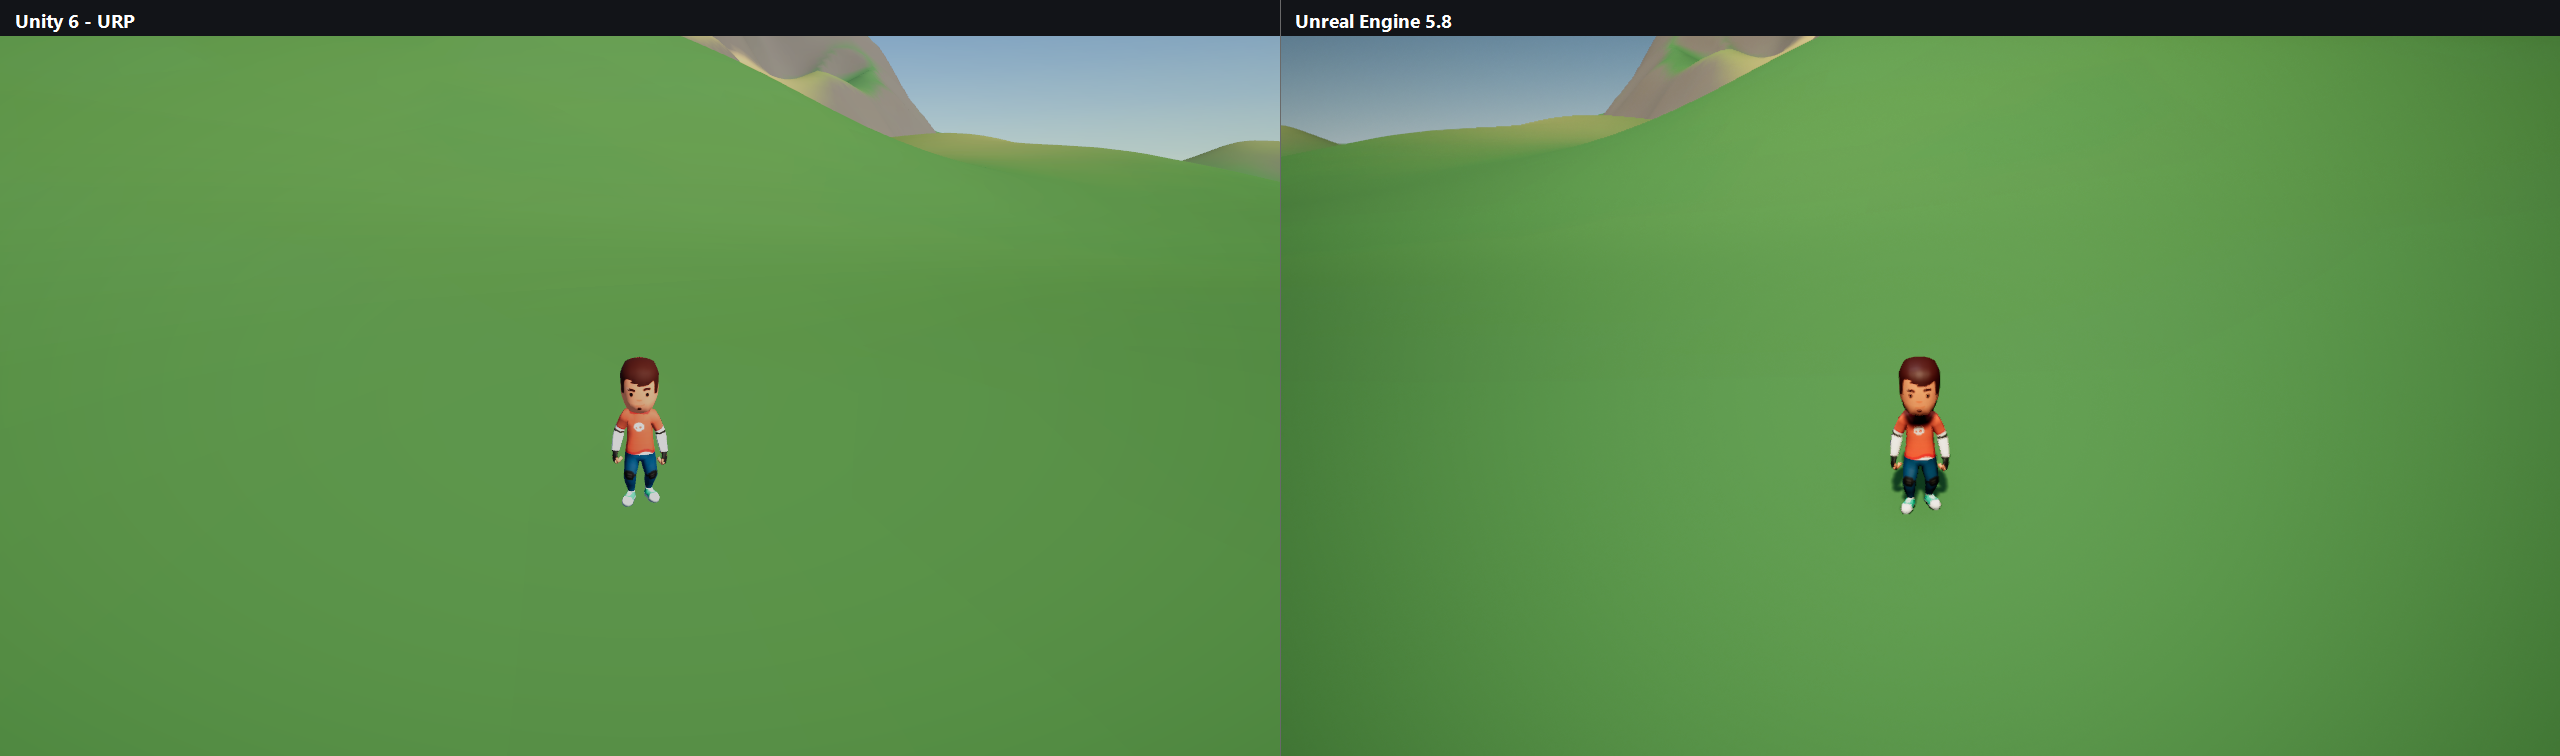
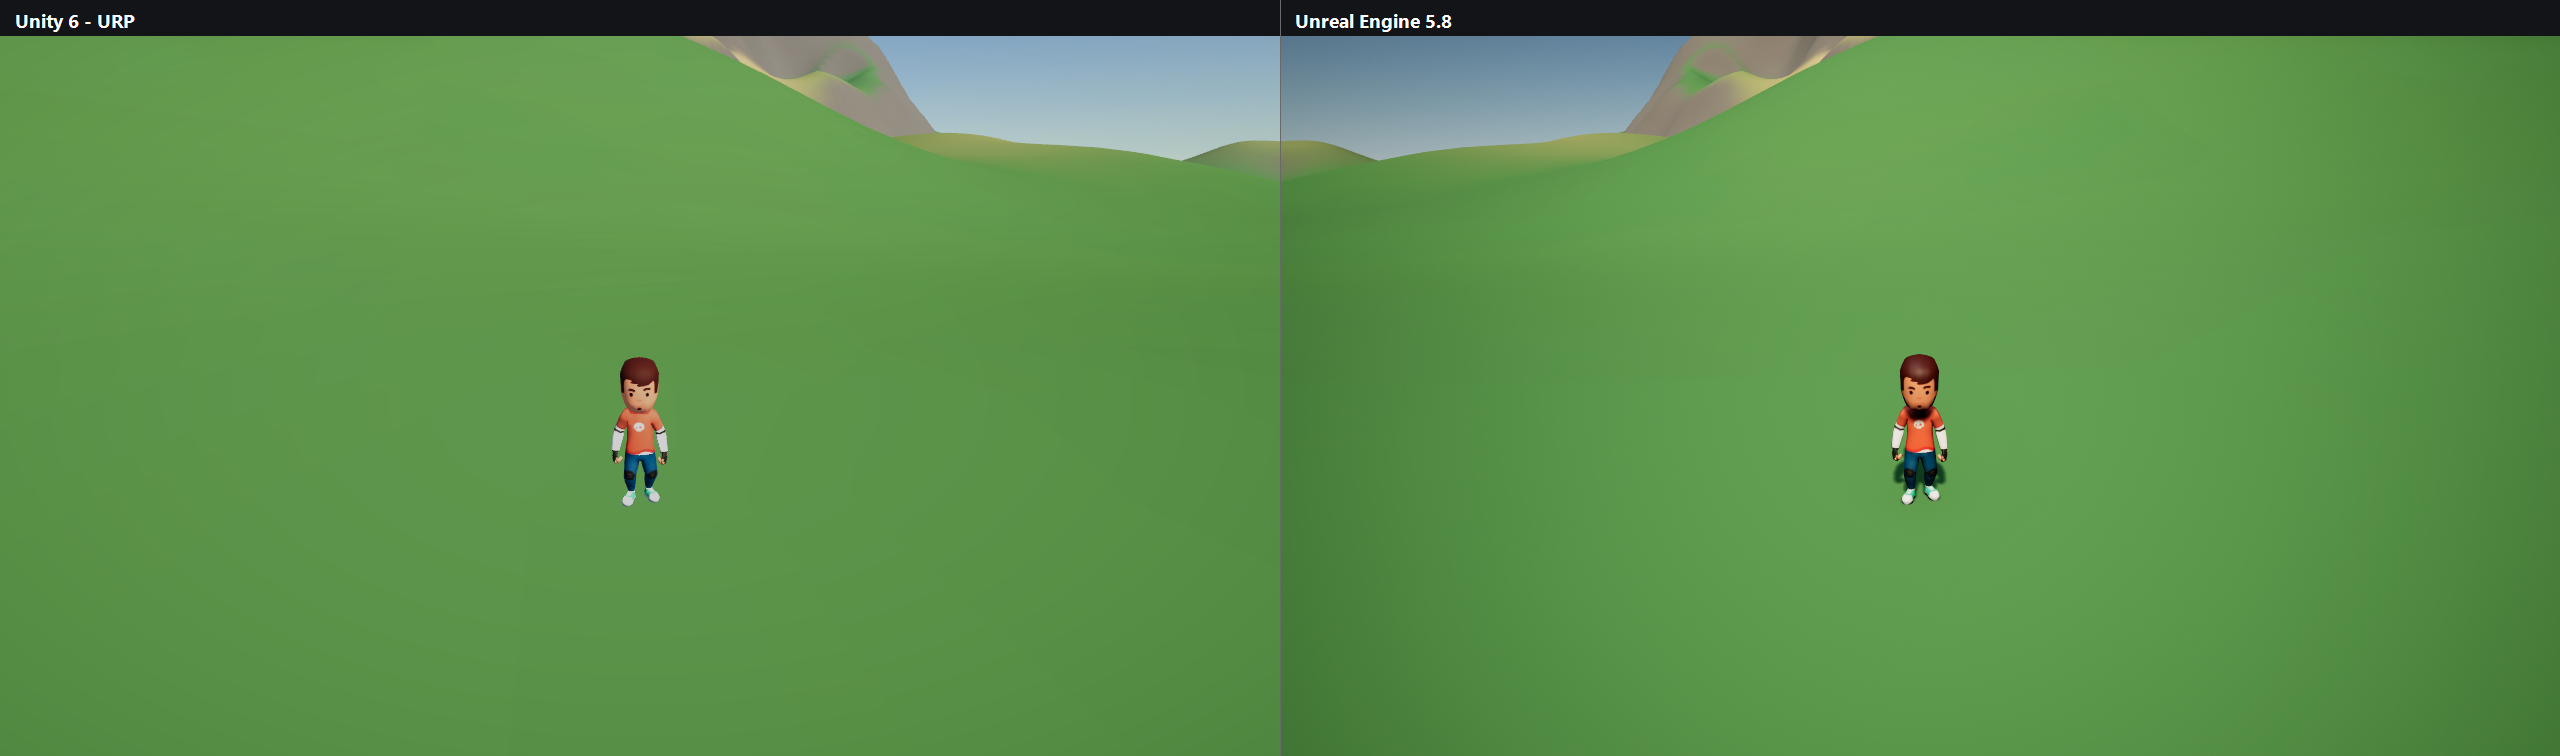
feat(demo): 对照发现 UE 世界镜像；对齐 FOV 与截图时序
- ue5: 相机水平 FOV 按 Unity 垂直 62° 换算为 93.77；延迟 0.5 s 截图；
  记录 ground/camera/view 日志（确认两端相机位姿一致）
- unity: CaptureDemoShot 记录 spawn/camera 日志
- docs: 记录“UE (x,z,y) 映射是反射、地形左右镜像”的发现与修复方向

Changed region(s): [[0.5, 0.0304, 0.75, 0.2434], [0.7188, 0.5172, 0.7812, 0.6693]]

diff --git a/clients/ue5/UE5GameClient/Source/UE5GameClient/World/WorldGameMode.cpp b/clients/ue5/UE5GameClient/Source/UE5GameClient/World/WorldGameMode.cpp
@@ -1,4 +1,4 @@
-#include "World/WorldGameMode.h"
+#include "World/WorldGameMode.h"
 
 #include "Camera/CameraActor.h"
 #include "Camera/CameraComponent.h"
@@ -215,9 +215,20 @@ void AWorldGameMode::BeginDemoShot()
 	const FVector LookAt = Ground + FVector(0.f, 0.f, 120.f);
 	const FRotator CameraRotation = (LookAt - CameraLocation).Rotation();
 
+	UE_LOG(LogTemp, Display,
+		TEXT("[AI003][DEMO-SHOT] ground=(%.0f,%.0f,%.0f) cam=(%.0f,%.0f,%.0f) rot=(%.2f,%.2f,%.2f) fov=%.2f"),
+		Ground.X, Ground.Y, Ground.Z, CameraLocation.X, CameraLocation.Y, CameraLocation.Z,
+		CameraRotation.Pitch, CameraRotation.Yaw, CameraRotation.Roll, 93.77);
+
 	ACameraActor* Camera = World->SpawnActor<ACameraActor>(CameraLocation, CameraRotation);
 	if (Camera != nullptr)
 	{
+		// Unity's fieldOfView is vertical; Unreal's is horizontal by default.
+		// 62° vertical at 16:9 ≈ 93.77° horizontal.
+		if (UCameraComponent* CameraComponent = Camera->GetCameraComponent())
+		{
+			CameraComponent->SetFieldOfView(93.77f);
+		}
 		if (APlayerController* PC = UGameplayStatics::GetPlayerController(this, 0))
 		{
 			PC->SetViewTarget(Camera);
@@ -245,11 +256,26 @@ void AWorldGameMode::BeginDemoShot()
 	}
 
 	IFileManager::Get().MakeDirectory(*FPaths::GetPath(DemoShotPath), true);
-	FScreenshotRequest::RequestScreenshot(DemoShotPath, false, false);
-	UE_LOG(LogTemp, Display, TEXT("[AI003][DEMO-SHOT] requested %s"), *DemoShotPath);
-
-	GetWorldTimerManager().SetTimer(
-		AutomationTimer, FTimerDelegate::CreateLambda([this]() { ExitWith(0); }), 1.5f, false);
+	// Give the view target one frame (or a few) to take effect before capturing.
+	GetWorldTimerManager().SetTimer(AutomationTimer, FTimerDelegate::CreateLambda([this]()
+	{
+		if (APlayerController* PC = UGameplayStatics::GetPlayerController(this, 0))
+		{
+			if (APlayerCameraManager* CameraManager = PC->PlayerCameraManager)
+			{
+				const FVector ViewLocation = CameraManager->GetCameraLocation();
+				const FRotator ViewRotation = CameraManager->GetCameraRotation();
+				UE_LOG(LogTemp, Display,
+					TEXT("[AI003][DEMO-SHOT] view=(%.0f,%.0f,%.0f) rot=(%.2f,%.2f,%.2f) fov=%.2f"),
+					ViewLocation.X, ViewLocation.Y, ViewLocation.Z,
+					ViewRotation.Pitch, ViewRotation.Yaw, ViewRotation.Roll, CameraManager->GetFOVAngle());
+			}
+		}
+		FScreenshotRequest::RequestScreenshot(DemoShotPath, false, false);
+		UE_LOG(LogTemp, Display, TEXT("[AI003][DEMO-SHOT] requested %s"), *DemoShotPath);
+		GetWorldTimerManager().SetTimer(
+			AutomationTimer, FTimerDelegate::CreateLambda([this]() { ExitWith(0); }), 1.5f, false);
+	}), 0.5f, false);
 }
 
 void AWorldGameMode::BeginAutomation()

diff --git a/clients/unity/UnityGameClient/Assets/Editor/CaptureDemoShot.cs b/clients/unity/UnityGameClient/Assets/Editor/CaptureDemoShot.cs
@@ -120,6 +120,8 @@ namespace AI003.EditorTools
             camera.transform.position = data.Spawn + new Vector3(0f, 3.2f, -6f);
             camera.transform.LookAt(data.Spawn + new Vector3(0f, 1.2f, 0f));
             camera.GetUniversalAdditionalCameraData().renderPostProcessing = true;
+            Debug.Log($"[AI003][DEMO-SHOT] spawn={data.Spawn} cam={camera.transform.position} " +
+                      $"rot={camera.transform.eulerAngles} fov={camera.fieldOfView}");
 
             string path = Path.Combine(artifacts, "unity.png");
             var target = new RenderTexture(Width, Height, 24, RenderTextureFormat.ARGB32) { antiAliasing = 4 };

diff --git a/docs/architecture.md b/docs/architecture.md
@@ -106,5 +106,8 @@ windows-latest 上跑 Go 测试 + 无头演示（引擎不在 CI 内）。
 - 正式美术与特效：UE 侧战斗反馈仍是 debug 图元。
 - 曝光/色调：UE 的 `AEM_Manual` 在该场景会压成黑帧，改用 Histogram + `min=max=0.8 EV`
   锁定曝光；Unity 侧用 ACES tonemapping 卷。仍有细微色彩分级差异（平均像素差 11.5/255）。
+- **UE 世界镜像（待修）**：UE 用 `(x, z, y)` 把 Unity 坐标换到 UE，行列式为 −1，
+  属于反射而非旋转——两端相机位姿日志完全一致，但地形山脊左右相反。修复方向：
+  `(x, −z, y)`，同步修改地形 chunk 放置/绕序、`SpawnUE`、世界同步/房间坐标转换与朝向。
 
 这些取舍是为了让演示**可复现、可观测、可回归**，而不是把时间花在玩法内容上。

diff --git a/README.md b/README.md
@@ -69,7 +69,10 @@
 
 ![Unity vs UE5 diff](docs/images/demo-diff.png)
 
-热力图中黑色表示一致、红/黄表示差异大：当前主要差异在天空渐变与角色边缘。
+热力图中黑色表示一致、红/黄表示差异大。**对照还暴露了一个真问题**：UE 的
+`(x, z, y)` 坐标映射是反射（行列式为负），导致地形相对 Unity **左右镜像**；
+相机位姿日志已确认两端在世界坐标中完全一致，因此问题在映射本身，修复计划见
+[docs/architecture.md](docs/architecture.md)。
 `demo-compare` 支持阈值（`-MaxBrightnessDelta 8 -MinWithin24 80`），
 `smoke-all -WithCompare` 会用这组阈值做回归。
 
